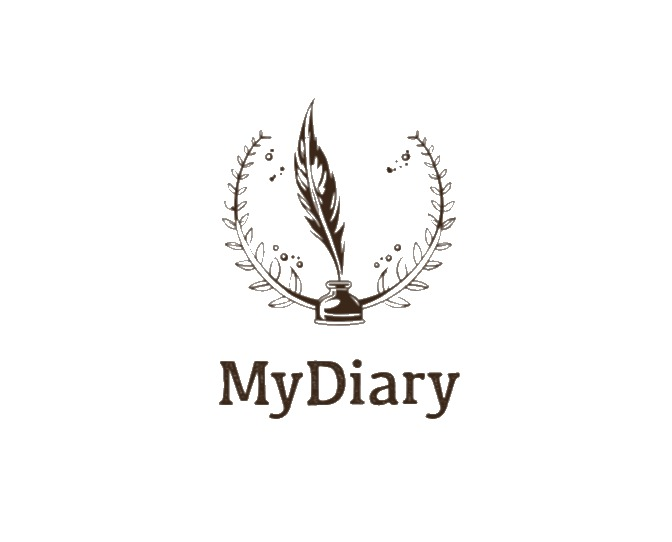
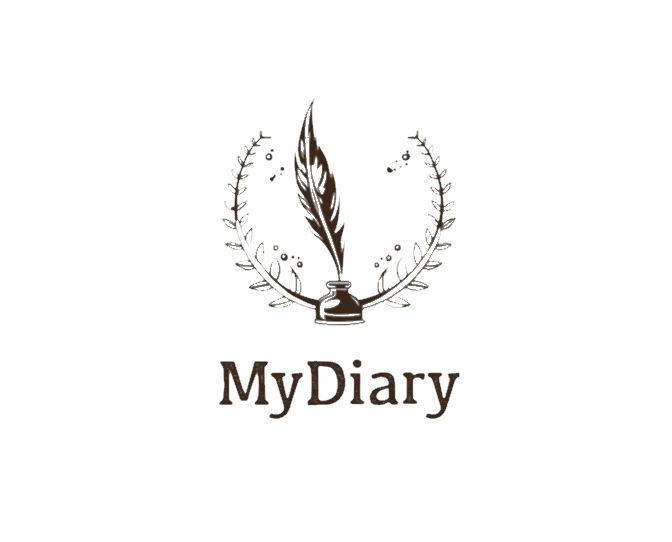
Saya menambahkan  peringatan pada login page apabila email dan sandi tidak diisi

diff --git a/lib/login_page.dart b/lib/login_page.dart
@@ -1,10 +1,13 @@
-import 'package:app_3a_02/reset_page.dart';
 import 'package:flutter/material.dart';
 import 'package:app_3a_02/register_page.dart';
 import 'package:app_3a_02/datang_page.dart';
+import 'package:app_3a_02/reset_page.dart';
 
 class LoginPage extends StatelessWidget {
-  const LoginPage({super.key});
+  LoginPage({super.key});
+
+  final TextEditingController emailController = TextEditingController();
+  final TextEditingController passwordController = TextEditingController();
 
   @override
   Widget build(BuildContext context) {
@@ -21,9 +24,9 @@ class LoginPage extends StatelessWidget {
           padding: const EdgeInsets.all(16.0),
           child: Column(
             children: [
-              Image.asset('assets/images/mydiary.png', width: 120, height: 120),
+              Image.asset('assets/images/mydiary.png', width: 140, height: 140),
 
-              SizedBox(height: 25),
+              SizedBox(height: 20),
               //text judul
               Text(
                 "Masuk",
@@ -40,6 +43,7 @@ class LoginPage extends StatelessWidget {
               SizedBox(height: 50),
 
               TextField(
+                controller: emailController,
                 decoration: InputDecoration(
                   filled: true,
                   fillColor: Colors.white,
@@ -53,6 +57,8 @@ class LoginPage extends StatelessWidget {
               //field password
               SizedBox(height: 16),
               TextField(
+                controller: passwordController,
+                obscureText: true,
                 decoration: InputDecoration(
                   filled: true,
                   fillColor: Colors.white,
@@ -70,6 +76,8 @@ class LoginPage extends StatelessWidget {
                 alignment: Alignment.centerRight,
                 child: TextButton(
                   onPressed: () {
+                    final TextEditingController resetEmailController = TextEditingController();
+
                     showDialog(
                       context: context,
                       builder: (BuildContext context) {
@@ -90,6 +98,7 @@ class LoginPage extends StatelessWidget {
                               ),
                               SizedBox(height: 12),
                               TextField(
+                                controller: resetEmailController,
                                 decoration: InputDecoration(
                                   hintText: "Masukkan email",
                                   prefixIcon: Icon(Icons.email),
@@ -107,6 +116,18 @@ class LoginPage extends StatelessWidget {
                             ),
                             ElevatedButton(
                               onPressed: () => {
+                                if (resetEmailController.text.trim().isEmpty) {
+                                  ScaffoldMessenger.of(context).showSnackBar(
+                                    SnackBar(
+                                      behavior: SnackBarBehavior.floating,
+                                      backgroundColor: Colors.white,
+                                      content: Text(
+                                        'Email harus diisi',
+                                        style: TextStyle(color: Colors.blue),
+                                      ),
+                                    ),
+                                  ),
+                                } else {
                                 Navigator.pop(context),
                                 Navigator.push(
                                   context,
@@ -114,6 +135,7 @@ class LoginPage extends StatelessWidget {
                                     builder: (context) => ResetPage(),
                                   ),
                                 ),
+                                },
                               },
                               style: ElevatedButton.styleFrom(
                                 backgroundColor: Colors.blue,
@@ -144,10 +166,21 @@ class LoginPage extends StatelessWidget {
               SizedBox(height: 20),
               ElevatedButton(
                 onPressed: () => {
+                  if (emailController.text.isEmpty || passwordController.text.isEmpty) {
+                    ScaffoldMessenger.of(context).showSnackBar(
+                      SnackBar(content: Text('Email dan Sandi harus diisi',
+                      style: TextStyle(color: Colors.blue),
+                      ),
+                      backgroundColor: Colors.white,
+                      behavior: SnackBarBehavior.floating,
+                      ),
+                      ),
+                  } else {
                   Navigator.push(
                     context,
                     MaterialPageRoute(builder: (context) => DatangPage()),
                   ),
+                  }
                 },
                 style: ElevatedButton.styleFrom(
                   backgroundColor: Colors.blue[800],

diff --git a/lib/register_page.dart b/lib/register_page.dart
@@ -2,7 +2,10 @@ import 'package:flutter/material.dart';
 import 'package:app_3a_02/datang_page.dart';
 
 class RegisterPage extends StatelessWidget{
-  const RegisterPage({super.key});
+  RegisterPage({super.key});
+
+  final TextEditingController emailController = TextEditingController();
+  final TextEditingController passwordController = TextEditingController();
 
   @override
   Widget build(BuildContext context) {
@@ -31,26 +34,29 @@ class RegisterPage extends StatelessWidget{
               //field email
               SizedBox(height: 50),
               TextField(
+                controller: emailController,
                 decoration: InputDecoration(
                   filled: true,
                   fillColor: Colors.white,
                   hintText: "Email",
                   border: OutlineInputBorder(
                     borderRadius: BorderRadius.circular(8),
-                    borderSide: BorderSide(color: Colors.blueAccent),
+                    borderSide: BorderSide.none,
                   ),
                 ),
               ),
               //field password
               SizedBox(height: 16),
               TextField(
+                controller: passwordController,
+                obscureText: true,
                 decoration: InputDecoration(
                   filled: true,
                   fillColor: Colors.white,
                   hintText: "Sandi",
                   border: OutlineInputBorder(
                     borderRadius: BorderRadius.circular(8),
-                    borderSide: BorderSide(color: Colors.blueAccent),
+                    borderSide: BorderSide.none,
                   ),
                 ),
               ),
@@ -59,10 +65,21 @@ class RegisterPage extends StatelessWidget{
               //login button
               ElevatedButton(
                 onPressed: () => {
+                  if (emailController.text.isEmpty || passwordController.text.isEmpty) {
+                    ScaffoldMessenger.of(context).showSnackBar(
+                      SnackBar(content: Text('Email dan Sandi harus diisi',
+                      style: TextStyle(color: Colors.blue),
+                      ),
+                      backgroundColor: Colors.white,
+                      behavior: SnackBarBehavior.floating,                      
+                      ),
+                      ),
+                  } else {
                   Navigator.push(
                     context,
                     MaterialPageRoute(builder: (context) => DatangPage()),
                   ),
+                  }
                 },
                 style: ElevatedButton.styleFrom(
                   backgroundColor: Colors.blue[800],

diff --git a/lib/datang_page.dart b/lib/datang_page.dart
@@ -33,7 +33,6 @@ class DatangPage extends StatelessWidget{
                 ),
                 
                 Text(
-                  
                   "Tempatmu menulis cerita dengan tenang ^^",
                   style: TextStyle(fontFamily: "IrishGrover", fontSize: 22, color: Colors.blue),
                 ),